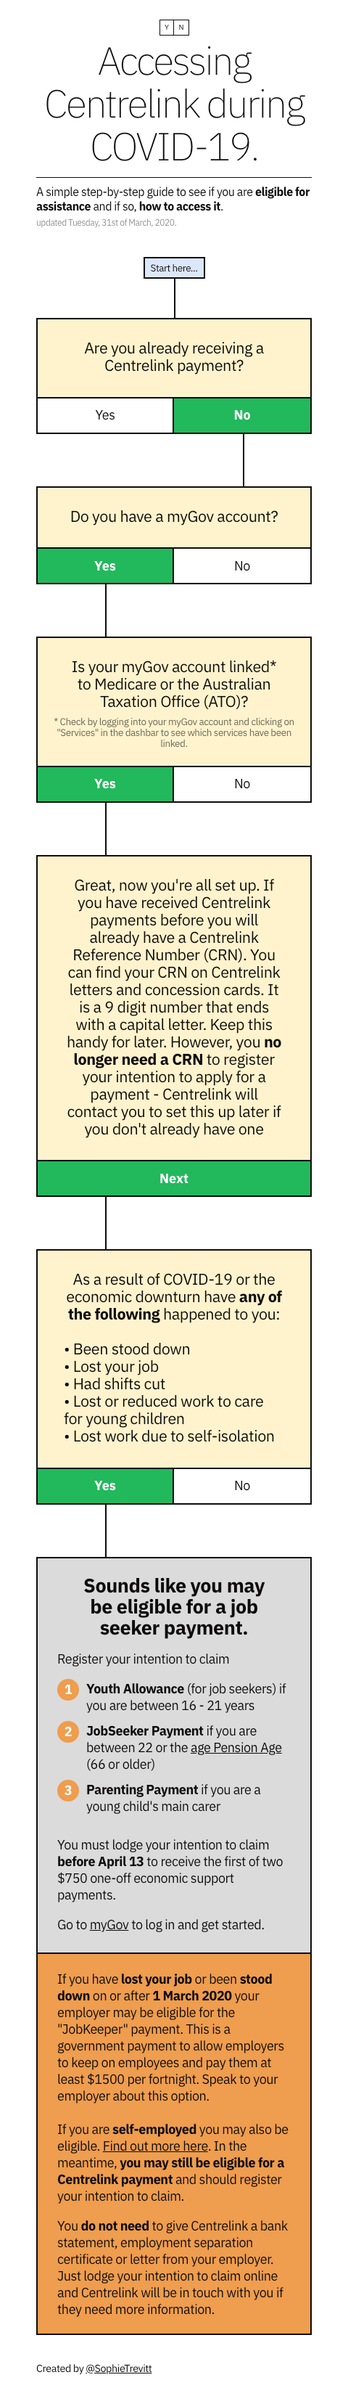
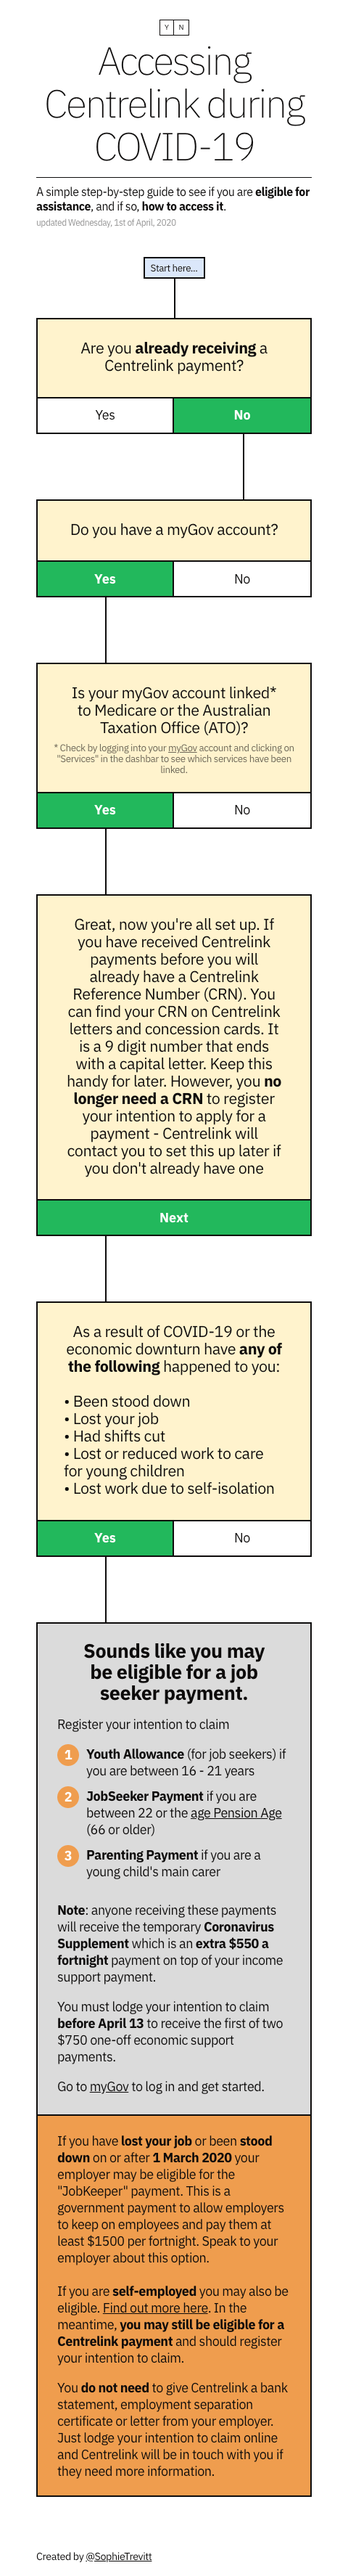
moar changes

diff --git a/index.html b/index.html
@@ -301,8 +301,7 @@ a.download  {
 margin:.5rem 0;
 display:none;
 border:2px solid #0D0B0B;
-padding:8px;
-font-size:12px;
+padding:.75rem;
 text-decoration:none;
 text-transform:uppercase;
 transition:background .25s}
@@ -315,7 +314,7 @@ display:block}
 
 a.download:hover {
 color:#fff;
-background:#999}
+background:#0D0B0B}
 
 .reset {
 font-size:.75rem}
@@ -450,6 +449,8 @@ margin-bottom:0}
                     <li><b>Parenting Payment</b> if you are a young child's main carer</li> 
                 </ol>
 
+                <p><b>Note</b>: anyone receiving these payments will receive the temporary <b>Coronavirus Supplement</b> which is an <b>extra $550 a fortnight</b> payment on top of your income support payment.</p>
+
                 <p>You must lodge your intention to claim <b>before April 13</b> to receive the first of two $750 one-off economic support payments.</p>
 
                 <p>Go to <a href="https://my.gov.au/">myGov</a> to log in and get started.</p>
@@ -507,13 +508,15 @@ margin-bottom:0}
 
                 <div class="flag">
 
-                    <p><b>Note:</b> Mutual obligation requirements for the JobSeeker payment, Youth Allowance as a job seeker or Parenting Payment have been <b>suspended</b> until 27 April 2020.</p> 
+                    <p>Note: <b>Mutual obligation</b> requirements for the JobSeeker payment, Youth Allowance as a job seeker or Parenting Payment have been <b>suspended</b> until 27 April 2020.</p> 
 
                 </div>
 
             </div> 
 
             <div class="results" data-id="s-y-y-n" data-end="yes">
+
+                <h3>Sounds like you may be eligible for a job seeker payment.</h3>
 
                 <h3>Register your intention to Claim</h3>
 
@@ -522,14 +525,16 @@ margin-bottom:0}
                     <li><b>JobSeeker Payment</b> if you are between 22 or the <a href="https://www.servicesaustralia.gov.au/individuals/services/centrelink/age-pension/who-can-get-it">age Pension Age</a> (66 or older)</li>  
                     <li><b>Parenting Payment</b> if you are a young child's main carer</li> 
                 </ol>
+                
+                <p>Note: anyone receiving these payments will receive the temporary <b>Coronavirus Supplement</b> which is an <b>extra $550 a fortnight</b> payment on top of your income support payment.</p>
 
-                <p>You must lodge your intention to claim <b>before April 13</b> to receive the first of two $750 one-off economic support payments. You will receive this payment if you are <a href="https://www.servicesaustralia.gov.au/individuals/news/750-one-economic-support-payment">receiving an eligible payment</a> between <b>12 March</b> and <b>13 April 2020</b>.</p>
+                <p>You must lodge your intention to claim <b>before April 13</b> to receive the first of two $750 one-off economic support payments.</p>
 
                 <p>Go to <a href="https://my.gov.au/">myGov</a> to log in and get started.</p>
 
                 <div class="flag">
 
-                    <p><b>Note:</b> You <b>do not need</b> to give Centrelink a bank statement, employment separation certificate or letter from your employer. Just lodge your intention to claim online and Centrelink will be in touch with you if they need more information.</p> 
+                    <p>Note: You <b>do not need</b> to give Centrelink a bank statement, employment separation certificate or letter from your employer. Just lodge your intention to claim online and Centrelink will be in touch with you if they need more information.</p> 
 
                 </div>
                 
@@ -554,7 +559,7 @@ margin-bottom:0}
 
                 <div class="flag">
 
-                    <p><b>Note:</b> Mutual obligation requirements for the JobSeeker payment, Youth Allowance as a job seeker or Parenting Payment have been <b>suspended</b> until 27 April 2020.</p> 
+                    <p>Note: <b>Mutual obligation</b> requirements for the JobSeeker payment, Youth Allowance as a job seeker or Parenting Payment have been <b>suspended</b> until 27 April 2020.</p> 
 
                 </div>
 
